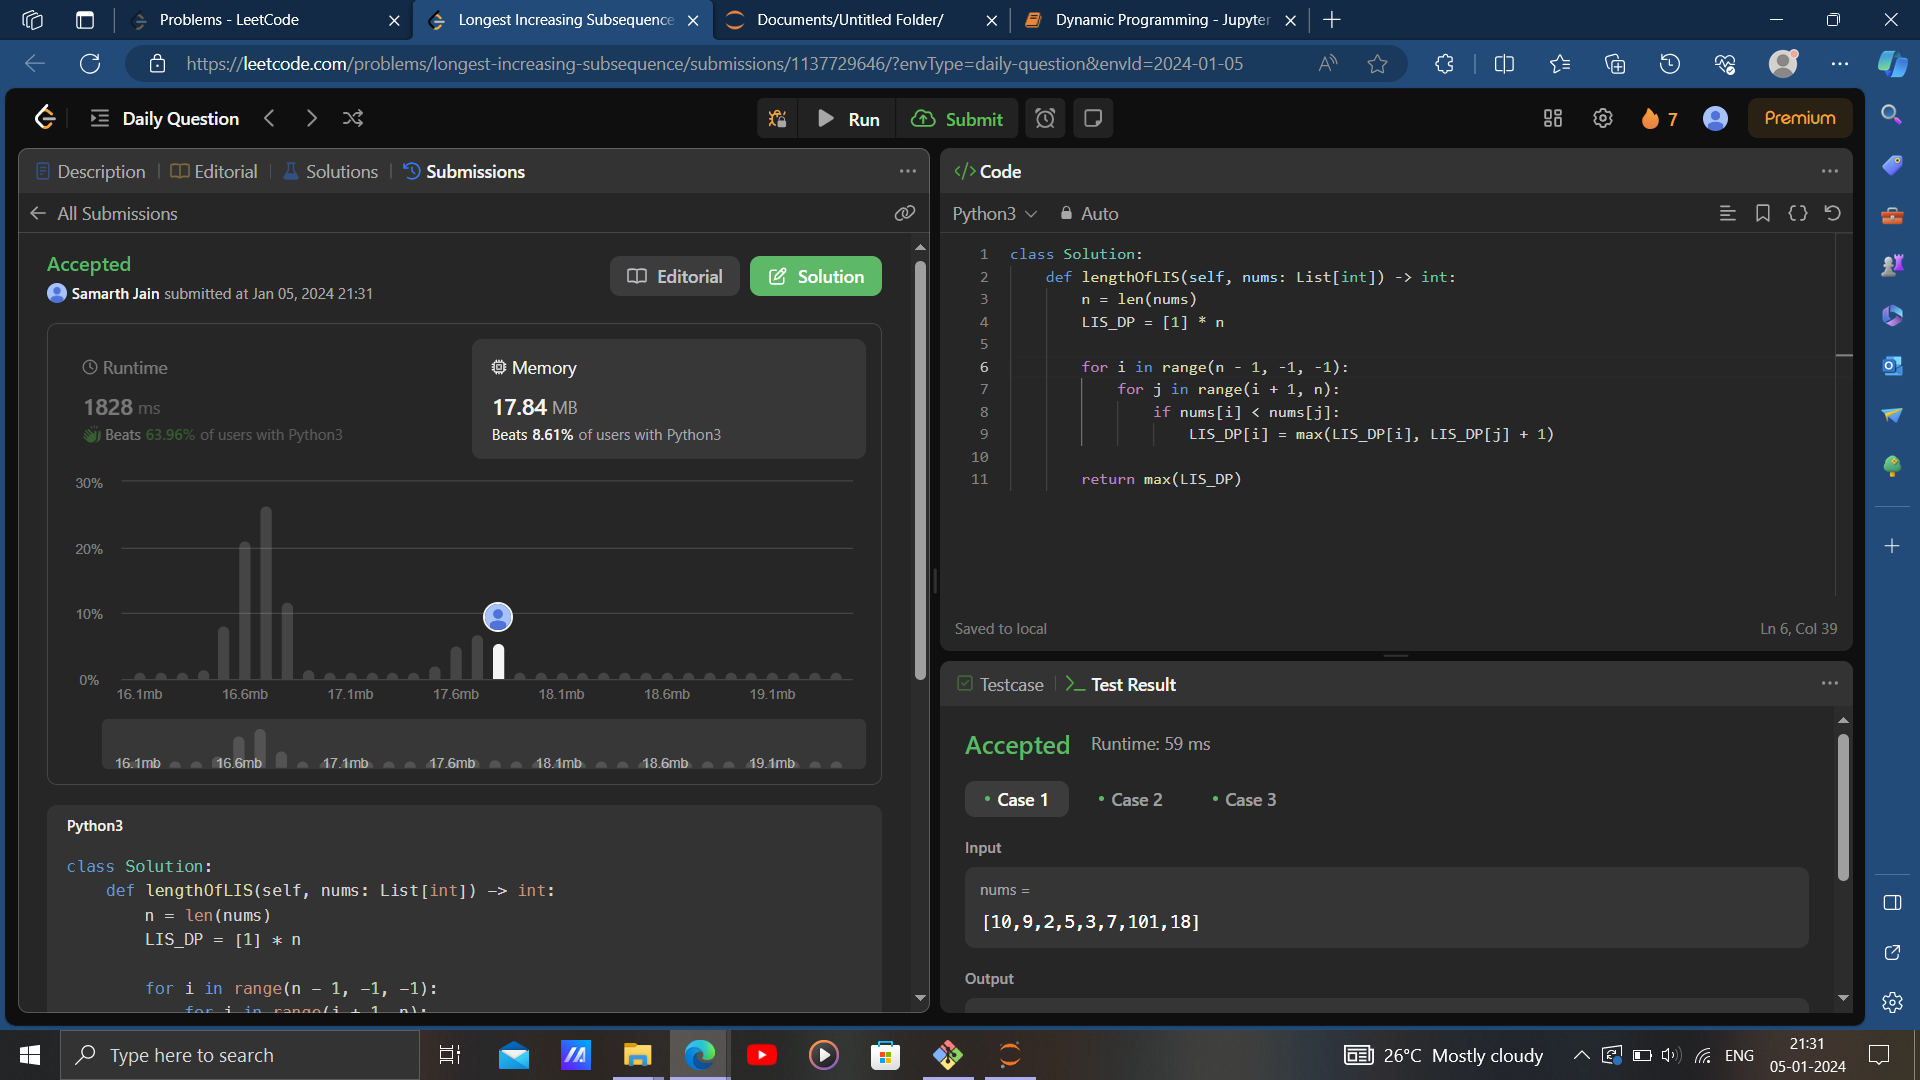
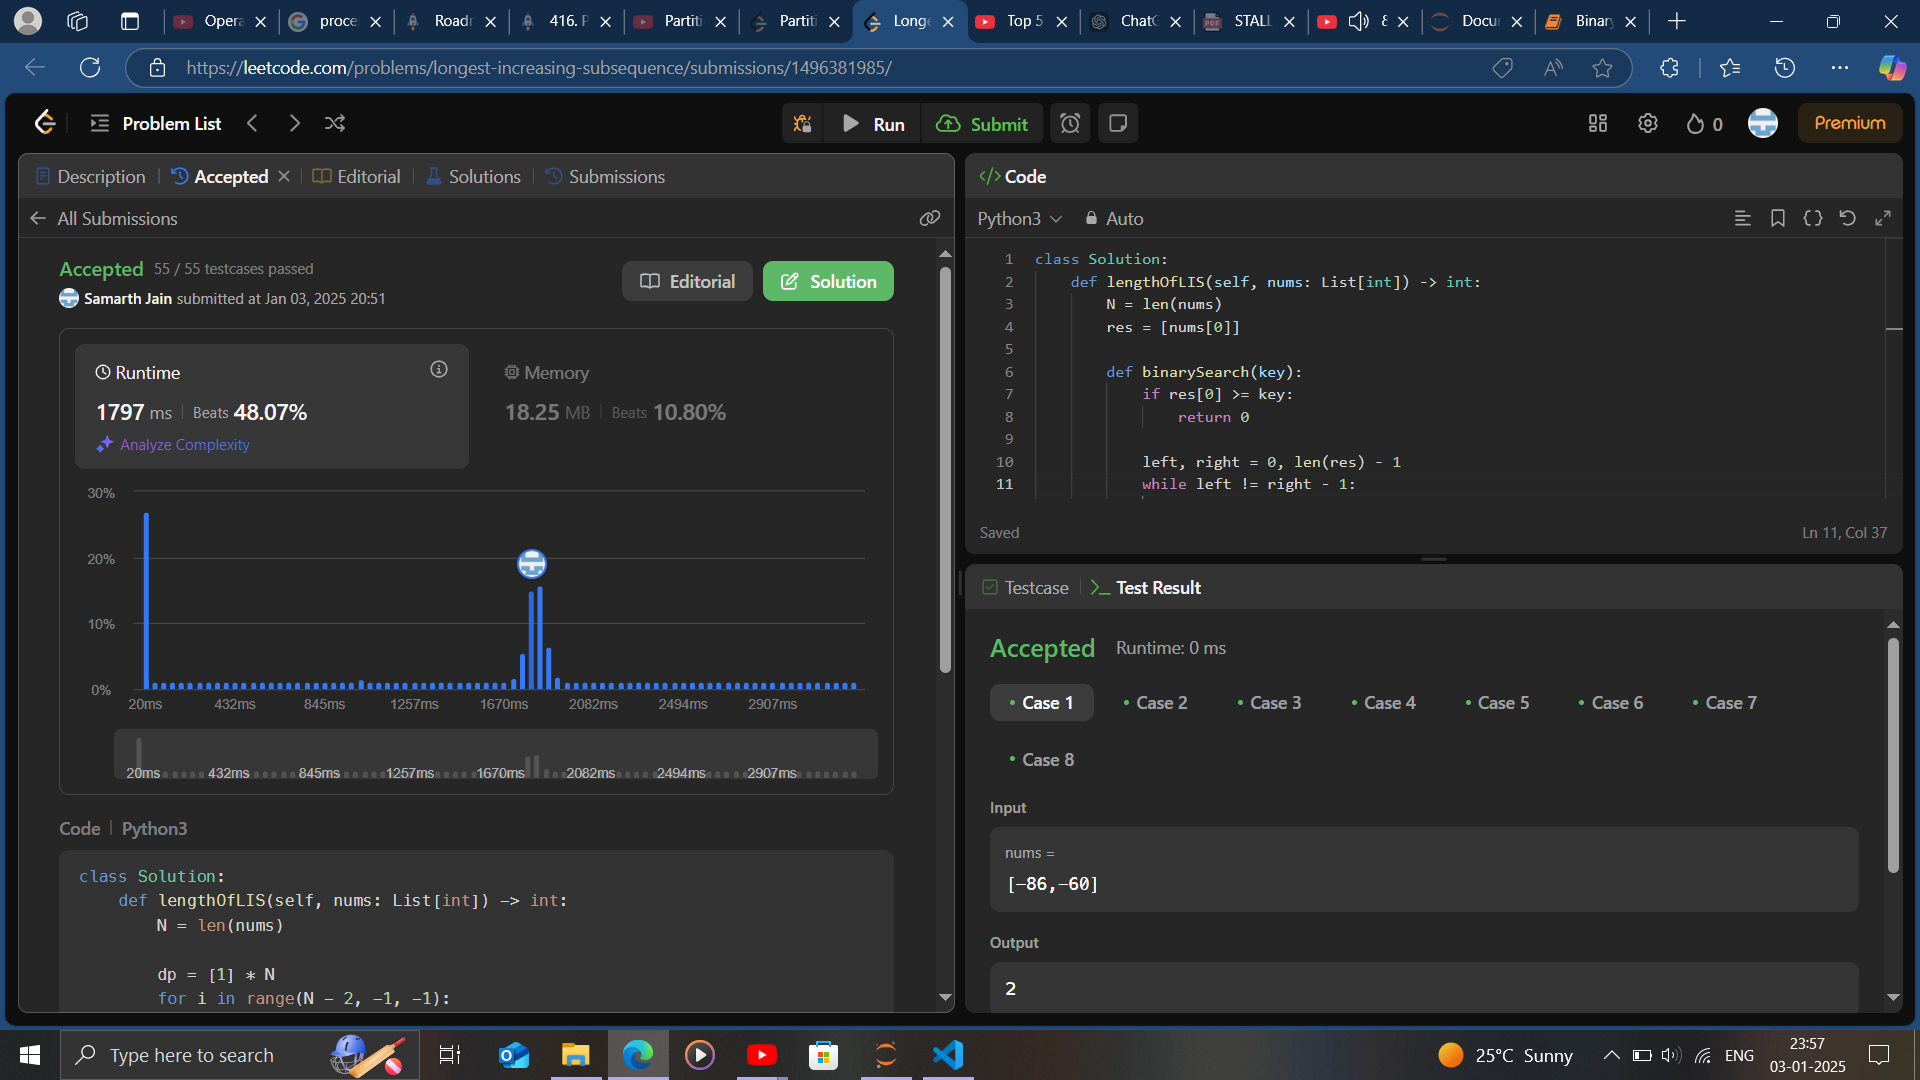
Leetcode-Solutions

diff --git a/Medium/[300] Longest Increasing Subsequence/[300] Longest Increasing Subsequence.py b/Medium/[300] Longest Increasing Subsequence/[300] Longest Increasing Subsequence.py
@@ -1,17 +1,36 @@
 """
 Accepted
 300 [Medium]
-Runtime: 1828 ms, faster than 63.96% of Python3 online submissions for Longest Increasing Subsequence.
-Memory Usage:  17.84 MB, less than 8.61% of Python3 online submissions for Longest Increasing Subsequence.
+Runtime: 7 ms, faster than 85.94% of Python3 online submissions for Longest Increasing Subsequence.
+Memory Usage:  18.07 MB, less than 19.42% of Python3 online submissions for Longest Increasing Subsequence.
+"""
+class Solution:
+    def wordBreak(self, s: str, wordDict: List[str]) -> bool:
+        N = len(s)
+
+        dp = [False] * (N + 1)
+        dp[N] = True
+        for i in range(N - 1, -1, -1):
+            for word in wordDict:
+                if i + len(word) <= len(s) and s[i : i + len(word)] == word:
+                    dp[i] = dp[i + len(word)]
+                if dp[i]:
+                    break
+        return dp[0]
+
+
+
+"""
+Runtime: 1794 ms, faster than 48.07% of Python3 online submissions for Longest Increasing Subsequence.
+Memory Usage:  18.25 MB, less than 10.80% of Python3 online submissions for Longest Increasing Subsequence.
 """
 class Solution:
     def lengthOfLIS(self, nums: List[int]) -> int:
-        n = len(nums)
-        LIS_DP = [1] * n
+        N = len(nums)
 
-        for i in range(n - 1, -1, -1):
-            for j in range(i + 1, n):
+        dp = [1] * N
+        for i in range(N - 2, -1, -1):
+            for j in range(i + 1, N):
                 if nums[i] < nums[j]:
-                    LIS_DP[i] = max(LIS_DP[i], LIS_DP[j] + 1)
-
-        return max(LIS_DP)
+                    dp[i] = max(dp[i], 1 + dp[j])
+        return max(dp)
